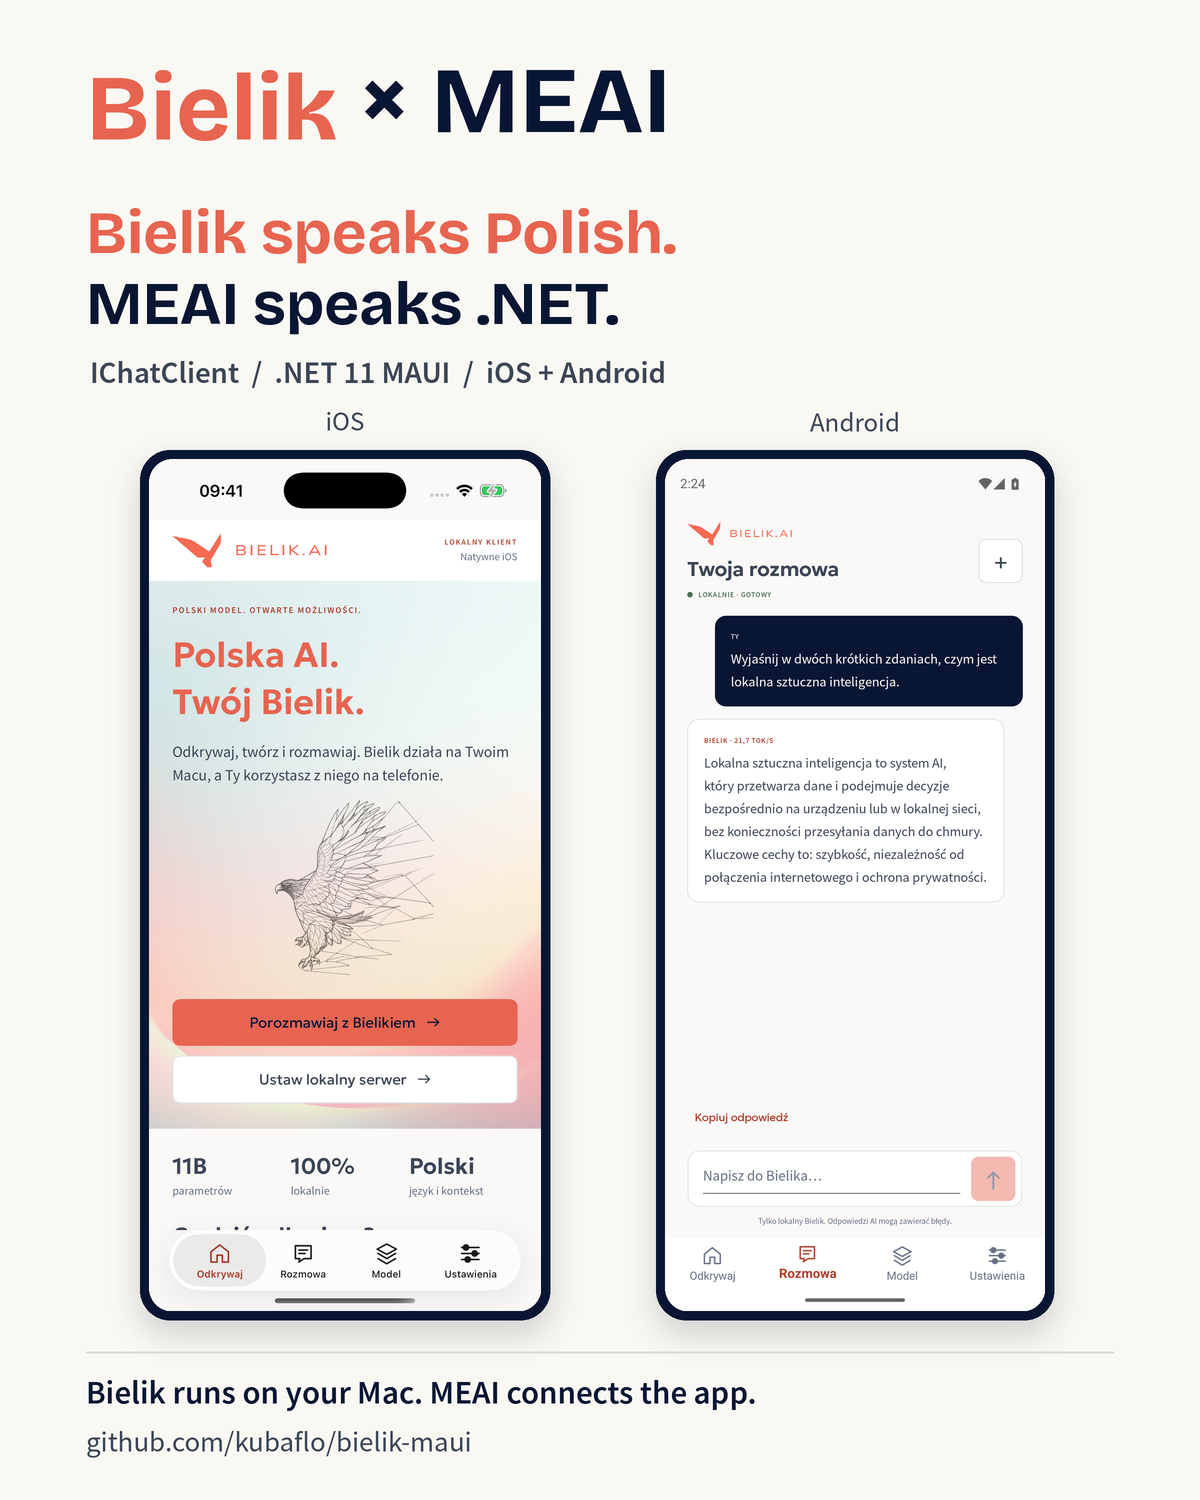
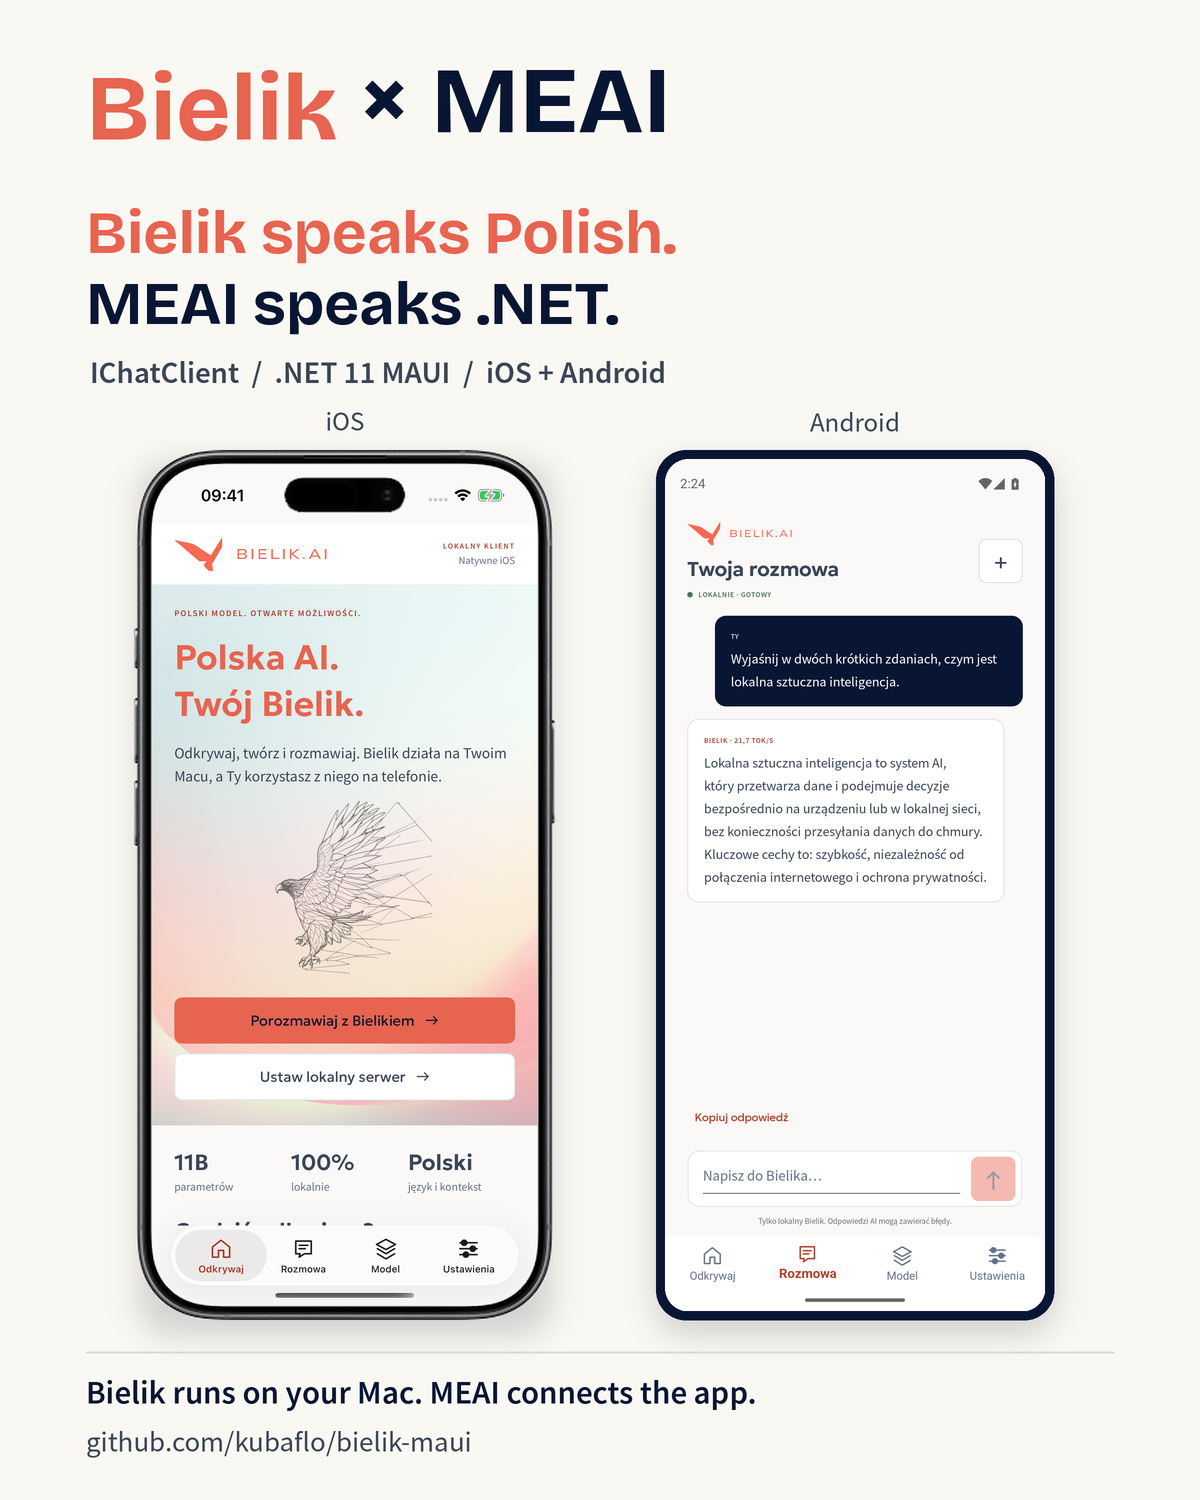
Use the supplied iPhone frame in the LinkedIn image
Replace only the iOS placeholder frame with the user's supplied hardware image, preserving the camera cutout, native app content, Android panel and promotional copy. Document the frame's retained original rights.

Changed region(s): [[0.0925, 0.276, 0.4625, 0.8893], [0.3392, 0.7667, 0.4008, 0.7973]]

diff --git a/docs/promotion.md b/docs/promotion.md
@@ -6,7 +6,7 @@ Copy-ready drafts for promoting both projects. These captions have not been post
 
 ## LinkedIn
 
-[Download the ready-to-attach screenshot image](../media/linkedin/bielik-meai.png). It uses the original [iOS discovery screenshot](../media/android-meai/ios/screenshots/01-discover.png) and [Android chat screenshot](../media/android-meai/android/screenshots/07-real-chat.png), with unchanged app content, resized and framed for a 1200 x 1500 post image. The labels identify the platforms. Device provenance remains in the original [iOS capture report](../media/android-meai/ios/ui-report.json) and [Android capture report](../media/android-meai/android/ui-report.json).
+[Download the ready-to-attach screenshot image](../media/linkedin/bielik-meai.png). It uses the original [iOS discovery screenshot](../media/android-meai/ios/screenshots/01-discover.png) and [Android chat screenshot](../media/android-meai/android/screenshots/07-real-chat.png), with unchanged app content, resized and framed for a 1200 x 1500 post image. The iOS image uses the user-supplied phone frame, which retains its original rights and is not covered by the app's MIT licence. The labels identify the platforms. Device provenance remains in the original [iOS capture report](../media/android-meai/ios/ui-report.json) and [Android capture report](../media/android-meai/android/ui-report.json).
 
 Copy-ready post:
 
